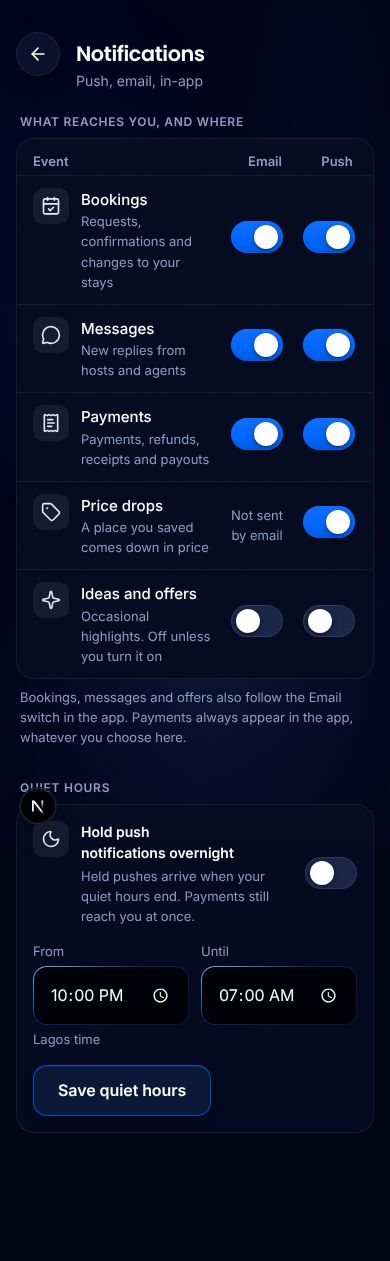
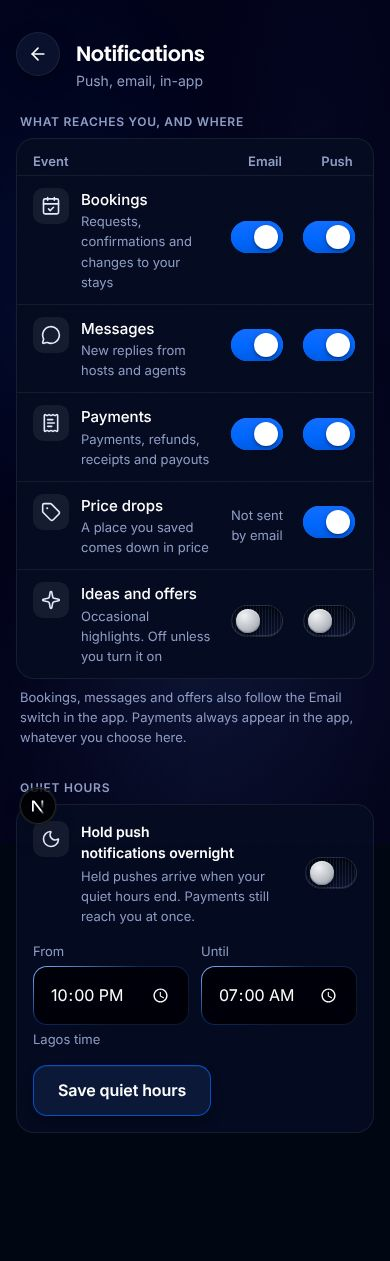
Notifications: the pre-permission screen as reference 1; settings switches as physical objects
PushPrompt (shown only after a meaningful action, never on first load, the
existing moments rules) is now the founder's notification-stack screen: the
stack in depth with the front card in Vallo's mark carrying this moment's own
offer line and one warm glow, the title, the promises as plated rows, one wide
capsule and Not now. Logic and words unchanged.

D74 on every settings page: the switch is a brushed track and a domed
platinum knob, scoped by a wrapper in the settings layout so the shared
Switch is untouched elsewhere.

Changed region(s): [[0.7692, 0.4639, 0.9231, 0.5258], [0.5846, 0.4639, 0.7385, 0.5258], [0.7692, 0.6804, 0.9231, 0.7113]]

diff --git a/apps/web/src/components/app/push/PushPrompt.tsx b/apps/web/src/components/app/push/PushPrompt.tsx
@@ -4,6 +4,9 @@ import { useCallback, useEffect, useState } from "react";
 import Link from "next/link";
 
 import { Button } from "@/components/ui/Button";
+import { LogoMark } from "@/design-system/brand/Logo";
+import { UiIcon, type UiIconName } from "@/design-system/icons/UiIcon";
+import "./push-prompt.css";
 
 import { failureMessage } from "./device-state";
 import { currentPermission, enrol, failureReference, onIosHomeScreenApp } from "./enrol";
@@ -143,19 +146,39 @@ export function PushPrompt({ moment, onSettled }: PushPromptProps) {
   if (!shown) return null;
 
   return (
-    <section className="nf-panel nf-panel--card block p-card" aria-live="polite" data-push-prompt={moment}>
-      <h2 className="nf-title-sm text-content">Get told, not left guessing</h2>
-      {/* The specific thing they will stop missing, in the words for this
-          moment. A generic "enable notifications" converts at a fraction of
-          this and deserves to. */}
-      <p className="nf-body-sm mt-2xs text-[var(--nf-content-secondary)]">{shown.offer}</p>
+    /* THE FOUNDER'S REFERENCE 1 ("Never miss a moment",
+       notification-stack-onboarding.jpg, 7 October): notifications stacked
+       in depth, the front one in our mark carrying the very line this moment
+       offers, then the title, one muted line, the promises as plated rows,
+       and one wide capsule. The stack is a picture of what will arrive, so it
+       is hidden from a screen reader; the words under it say it all. */
+    <section className="nf-push-ask" aria-live="polite" data-push-prompt={moment}>
+      <div className="nf-push-ask__stack" aria-hidden="true">
+        <span className="nf-push-ask__card nf-push-ask__card--3" />
+        <span className="nf-push-ask__card nf-push-ask__card--2" />
+        <span className="nf-push-ask__card nf-push-ask__card--1">
+          <span className="nf-push-ask__mark">
+            <LogoMark size={22} />
+          </span>
+          <span className="nf-push-ask__text">
+            <span className="nf-push-ask__app">Vallo</span>
+            <span className="nf-push-ask__line">{shown.offer}</span>
+          </span>
+        </span>
+      </div>
+      <h2 className="nf-push-ask__title">Get told, not left guessing</h2>
       {/* EXACTLY WHAT WILL BE SENT, BEFORE THE PROMPT AND NOT AFTER.
           A person who knows what they are agreeing to says yes more often
           and regrets it less. */}
-      <ul className="nf-body-sm mt-sm list-disc space-y-3xs pl-lg text-[var(--nf-content-secondary)]">
-        <li>Bookings, messages and money.</li>
-        <li>Nothing at night unless it is about your money.</li>
-        <li>Off again whenever you like, in Settings.</li>
+      <ul className="nf-push-ask__rows">
+        {PROMISES.map((row) => (
+          <li key={row.text} className="nf-push-ask__row">
+            <span className="nf-push-ask__plate" aria-hidden="true">
+              <UiIcon name={row.icon} size={20} />
+            </span>
+            {row.text}
+          </li>
+        ))}
       </ul>
       {failed ? (
         <p role="alert" data-push-note="problem" className="nf-body-sm mt-sm text-[var(--nf-state-error)]">
@@ -170,8 +193,8 @@ export function PushPrompt({ moment, onSettled }: PushPromptProps) {
           ) : null}
         </p>
       ) : null}
-      <div className="mt-md flex flex-wrap gap-sm">
-        <Button variant="primary" onClick={accept} disabled={busy}>
+      <div className="nf-push-ask__actions">
+        <Button variant="primary" full onClick={accept} disabled={busy}>
           {busy ? "Just a moment" : "Yes, tell me"}
         </Button>
         {/* Not now, never Cancel. It is a real answer and it is honoured for
@@ -183,5 +206,12 @@ export function PushPrompt({ moment, onSettled }: PushPromptProps) {
     </section>
   );
 }
+
+/** What will be sent, as the reference's plated rows. Unchanged words. */
+const PROMISES: { icon: UiIconName; text: string }[] = [
+  { icon: "bell", text: "Bookings, messages and money." },
+  { icon: "moon", text: "Nothing at night unless it is about your money." },
+  { icon: "settings-gear", text: "Off again whenever you like, in Settings." },
+];
 
 export default PushPrompt;

diff --git a/apps/web/src/components/app/push/push-prompt.css b/apps/web/src/components/app/push/push-prompt.css
@@ -1,0 +1,129 @@
+/*
+  THE SCREEN BEFORE THE SYSTEM PROMPT (`PushPrompt.tsx`; the founder's
+  reference 1, notification-stack-onboarding.jpg): a near-black card, the
+  notifications stacked in depth (front one frosted glass with a hairline
+  light edge and one warm glow behind the mark; each behind narrower, dimmer,
+  lower), a confident title, the promises as rows with soft plates, and one
+  wide capsule.
+*/
+@layer components {
+  .nf-push-ask {
+    display: flex;
+    flex-direction: column;
+    gap: var(--nf-space-md);
+    padding: var(--nf-space-xl) var(--nf-space-lg) var(--nf-space-lg);
+    border-radius: var(--nf-radius-card);
+    border: var(--nf-border-width) solid var(--nf-smoked-glass-edge);
+    background: var(--nf-surface-raised);
+  }
+  .nf-push-ask__stack {
+    position: relative;
+    height: 6.25rem;
+    margin-bottom: var(--nf-space-xs);
+  }
+  .nf-push-ask__card {
+    position: absolute;
+    inset: 0 0 1.25rem;
+    border-radius: var(--nf-radius-card);
+    border: var(--nf-border-width) solid var(--nf-glass-rim-thin);
+    background: var(--nf-surface-elevated);
+    transform-origin: 50% 100%;
+  }
+  .nf-push-ask__card--1 {
+    z-index: 3;
+    display: flex;
+    align-items: center;
+    gap: var(--nf-space-sm);
+    padding: var(--nf-space-sm) var(--nf-space-md);
+    background: var(--nf-glass-fill-strong);
+    -webkit-backdrop-filter: blur(var(--nf-glass-blur)) saturate(var(--nf-glass-saturate));
+    backdrop-filter: blur(var(--nf-glass-blur)) saturate(var(--nf-glass-saturate));
+    border-color: var(--nf-glass-rim);
+    box-shadow: var(--nf-glass-shadow);
+  }
+  .nf-push-ask__card--2 {
+    z-index: 2;
+    transform: translateY(0.625rem) scale(0.92);
+    opacity: 0.6;
+  }
+  .nf-push-ask__card--3 {
+    z-index: 1;
+    transform: translateY(1.25rem) scale(0.84);
+    opacity: 0.3;
+  }
+  .nf-push-ask__mark {
+    position: relative;
+    flex: none;
+    display: grid;
+    place-items: center;
+    width: 2.5rem;
+    height: 2.5rem;
+    border-radius: var(--nf-radius-plate);
+    background: var(--nf-surface-canvas);
+    isolation: isolate;
+  }
+  /* The one warm glow, bleeding from behind the mark. */
+  .nf-push-ask__mark::before {
+    content: "";
+    position: absolute;
+    inset: -1.25rem;
+    z-index: -1;
+    border-radius: var(--nf-radius-circle);
+    background: radial-gradient(closest-side, color-mix(in oklab, var(--nf-spark) 40%, transparent), transparent);
+  }
+  .nf-push-ask__text {
+    display: flex;
+    flex-direction: column;
+    min-width: 0;
+  }
+  .nf-push-ask__app {
+    font-size: var(--nf-text-caption);
+    font-weight: 600;
+    color: var(--nf-content-secondary);
+  }
+  .nf-push-ask__line {
+    font-size: var(--nf-text-body-sm);
+    color: var(--nf-content-primary);
+    overflow: hidden;
+    display: -webkit-box;
+    -webkit-line-clamp: 2;
+    -webkit-box-orient: vertical;
+  }
+  .nf-push-ask__title {
+    text-align: center;
+    font-family: var(--nf-font-display);
+    font-size: var(--nf-text-h3);
+    font-weight: 500;
+    letter-spacing: var(--nf-tracking-tight);
+    color: var(--nf-content-primary);
+  }
+  .nf-push-ask__rows {
+    display: flex;
+    flex-direction: column;
+    gap: var(--nf-space-sm);
+  }
+  .nf-push-ask__row {
+    display: flex;
+    align-items: center;
+    gap: var(--nf-space-sm);
+    font-size: var(--nf-text-body-sm);
+    color: var(--nf-content-secondary);
+  }
+  .nf-push-ask__plate {
+    flex: none;
+    display: grid;
+    place-items: center;
+    width: 2.5rem;
+    height: 2.5rem;
+    border-radius: var(--nf-radius-plate);
+    background: var(--nf-glass-fill);
+    color: var(--nf-content-primary);
+  }
+  .nf-push-ask__actions {
+    display: flex;
+    flex-direction: column;
+    align-items: stretch;
+    gap: var(--nf-space-2xs);
+    margin-top: var(--nf-space-xs);
+  }
+}

diff --git a/apps/web/src/app/(app)/settings/settings-physical.css b/apps/web/src/app/(app)/settings/settings-physical.css
@@ -1,0 +1,33 @@
+/*
+  CONTROLS AS PHYSICAL OBJECTS, ON EVERY SETTINGS PAGE (P6, D74: "settings and
+  notifications: controls as physical objects, a brushed track, domed knobs").
+  The shared `Switch` keeps its own look everywhere else; inside settings the
+  knob is a domed platinum bead lit from the top left, and the track off is a
+  brushed, faintly grained well. On is still the brand light, so on and off
+  read by position, fill and shine together, never by colour alone.
+  Scoped by the wrapper in `src/app/(app)/settings/layout.tsx`; the lead can lift it to the
+  shared Switch if it should be the platform's switch.
+*/
+@layer components {
+  .nf-settings-physical .nf-switch {
+    background:
+      repeating-linear-gradient(90deg, var(--nf-glass-fill) 0 1px, transparent 1px 3px),
+      linear-gradient(to bottom, var(--nf-surface-canvas), var(--nf-surface-elevated));
+    box-shadow:
+      inset 0 1px 2px var(--nf-surface-canvas),
+      inset 0 -1px 0 var(--nf-glass-rim-thin);
+  }
+  .nf-settings-physical .nf-switch[aria-checked="true"] {
+    background:
+      repeating-linear-gradient(90deg, var(--nf-glass-fill) 0 1px, transparent 1px 3px),
+      var(--nf-brand-accent);
+  }
+  .nf-settings-physical .nf-switch__thumb,
+  .nf-settings-physical .nf-switch[aria-checked="true"] .nf-switch__thumb {
+    background: radial-gradient(circle at 35% 28%, var(--nf-platinum-hi) 0%, var(--nf-platinum-mid) 58%, var(--nf-platinum-low) 100%);
+    box-shadow:
+      0 2px 4px var(--nf-surface-canvas),
+      inset 0 -1px 1px var(--nf-platinum-low),
+      inset 0 1px 1px var(--nf-platinum-edge);
+  }
+}

diff --git a/apps/web/src/app/(dev)/preview/p6/settings-notifications/page.tsx b/apps/web/src/app/(dev)/preview/p6/settings-notifications/page.tsx
@@ -2,6 +2,7 @@ import { getDictionary } from "@vallo/i18n";
 import { PageHeader } from "@/components/app/PageHeader";
 import { NotificationMatrix } from "@/app/(app)/settings/notifications/NotificationMatrix";
 import { SETTINGS_DEFAULTS } from "@/lib/profile/model";
+import "@/app/(app)/settings/settings-physical.css";
 
 /**
  * The signed-in notification settings (P6): the event by channel matrix with
@@ -13,7 +14,7 @@ export default function PreviewP6SettingsNotifications() {
   return (
     <main id="main" className="min-h-dvh pb-4xl">
       <div className="nf-shell py-section-tight">
-        <div className="mx-auto max-w-2xl">
+        <div className="nf-settings-physical mx-auto max-w-2xl">
           <PageHeader title={t.settings.notifications.label} subtitle={t.settings.hub.notificationsSub} fallback="/settings" />
           <NotificationMatrix initial={SETTINGS_DEFAULTS.notifications} copy={t.experienceSettings.notifications} />
         </div>

diff --git a/apps/web/src/app/(app)/settings/layout.tsx b/apps/web/src/app/(app)/settings/layout.tsx
@@ -2,6 +2,7 @@ import type { ReactNode } from "react";
 import { getDictionary } from "@vallo/i18n";
 import { getLocale } from "@/lib/locale";
 import { SettingsAreaNav } from "./SettingsAreaNav";
+import "./settings-physical.css";
 
 /**
  * Every settings route, wrapped once: the glass inner navigation (R3-08) sits
@@ -13,5 +14,11 @@ import { SettingsAreaNav } from "./SettingsAreaNav";
  */
 export default async function SettingsLayout({ children }: { children: ReactNode }) {
   const t = getDictionary(await getLocale());
-  return <SettingsAreaNav copy={t.experienceSettings.area}>{children}</SettingsAreaNav>;
+  /* D74: every switch on a settings page is a physical object, a brushed
+     track and a domed platinum knob (`settings-physical.css`). */
+  return (
+    <SettingsAreaNav copy={t.experienceSettings.area}>
+      <div className="nf-settings-physical">{children}</div>
+    </SettingsAreaNav>
+  );
 }

diff --git a/apps/web/src/app/(dev)/preview/p6/tracker/page.tsx b/apps/web/src/app/(dev)/preview/p6/tracker/page.tsx
@@ -64,10 +64,7 @@ export default function PreviewP6Tracker() {
               title={agreementStatusLabel("approved", "stay")}
               tone={agreementStatusTone("approved")}
               since={`Confirmed · ${when(STAY[2]!.at)}`}
-              cells={[
-                { label: "Next step", value: "Paid" },
-                { label: "Your part", value: "Pay 180,000 naira" },
-              ]}
+              cells={[{ label: "Your part", value: "Pay 180,000 naira" }]}
               steps={steps("approved", STAY, true)}
               timelineLabel="Agreement progress"
               glyphs={{ drawn: "file-text", confirmed: "user-check", approved: "verified", paid: "wallet" }}
